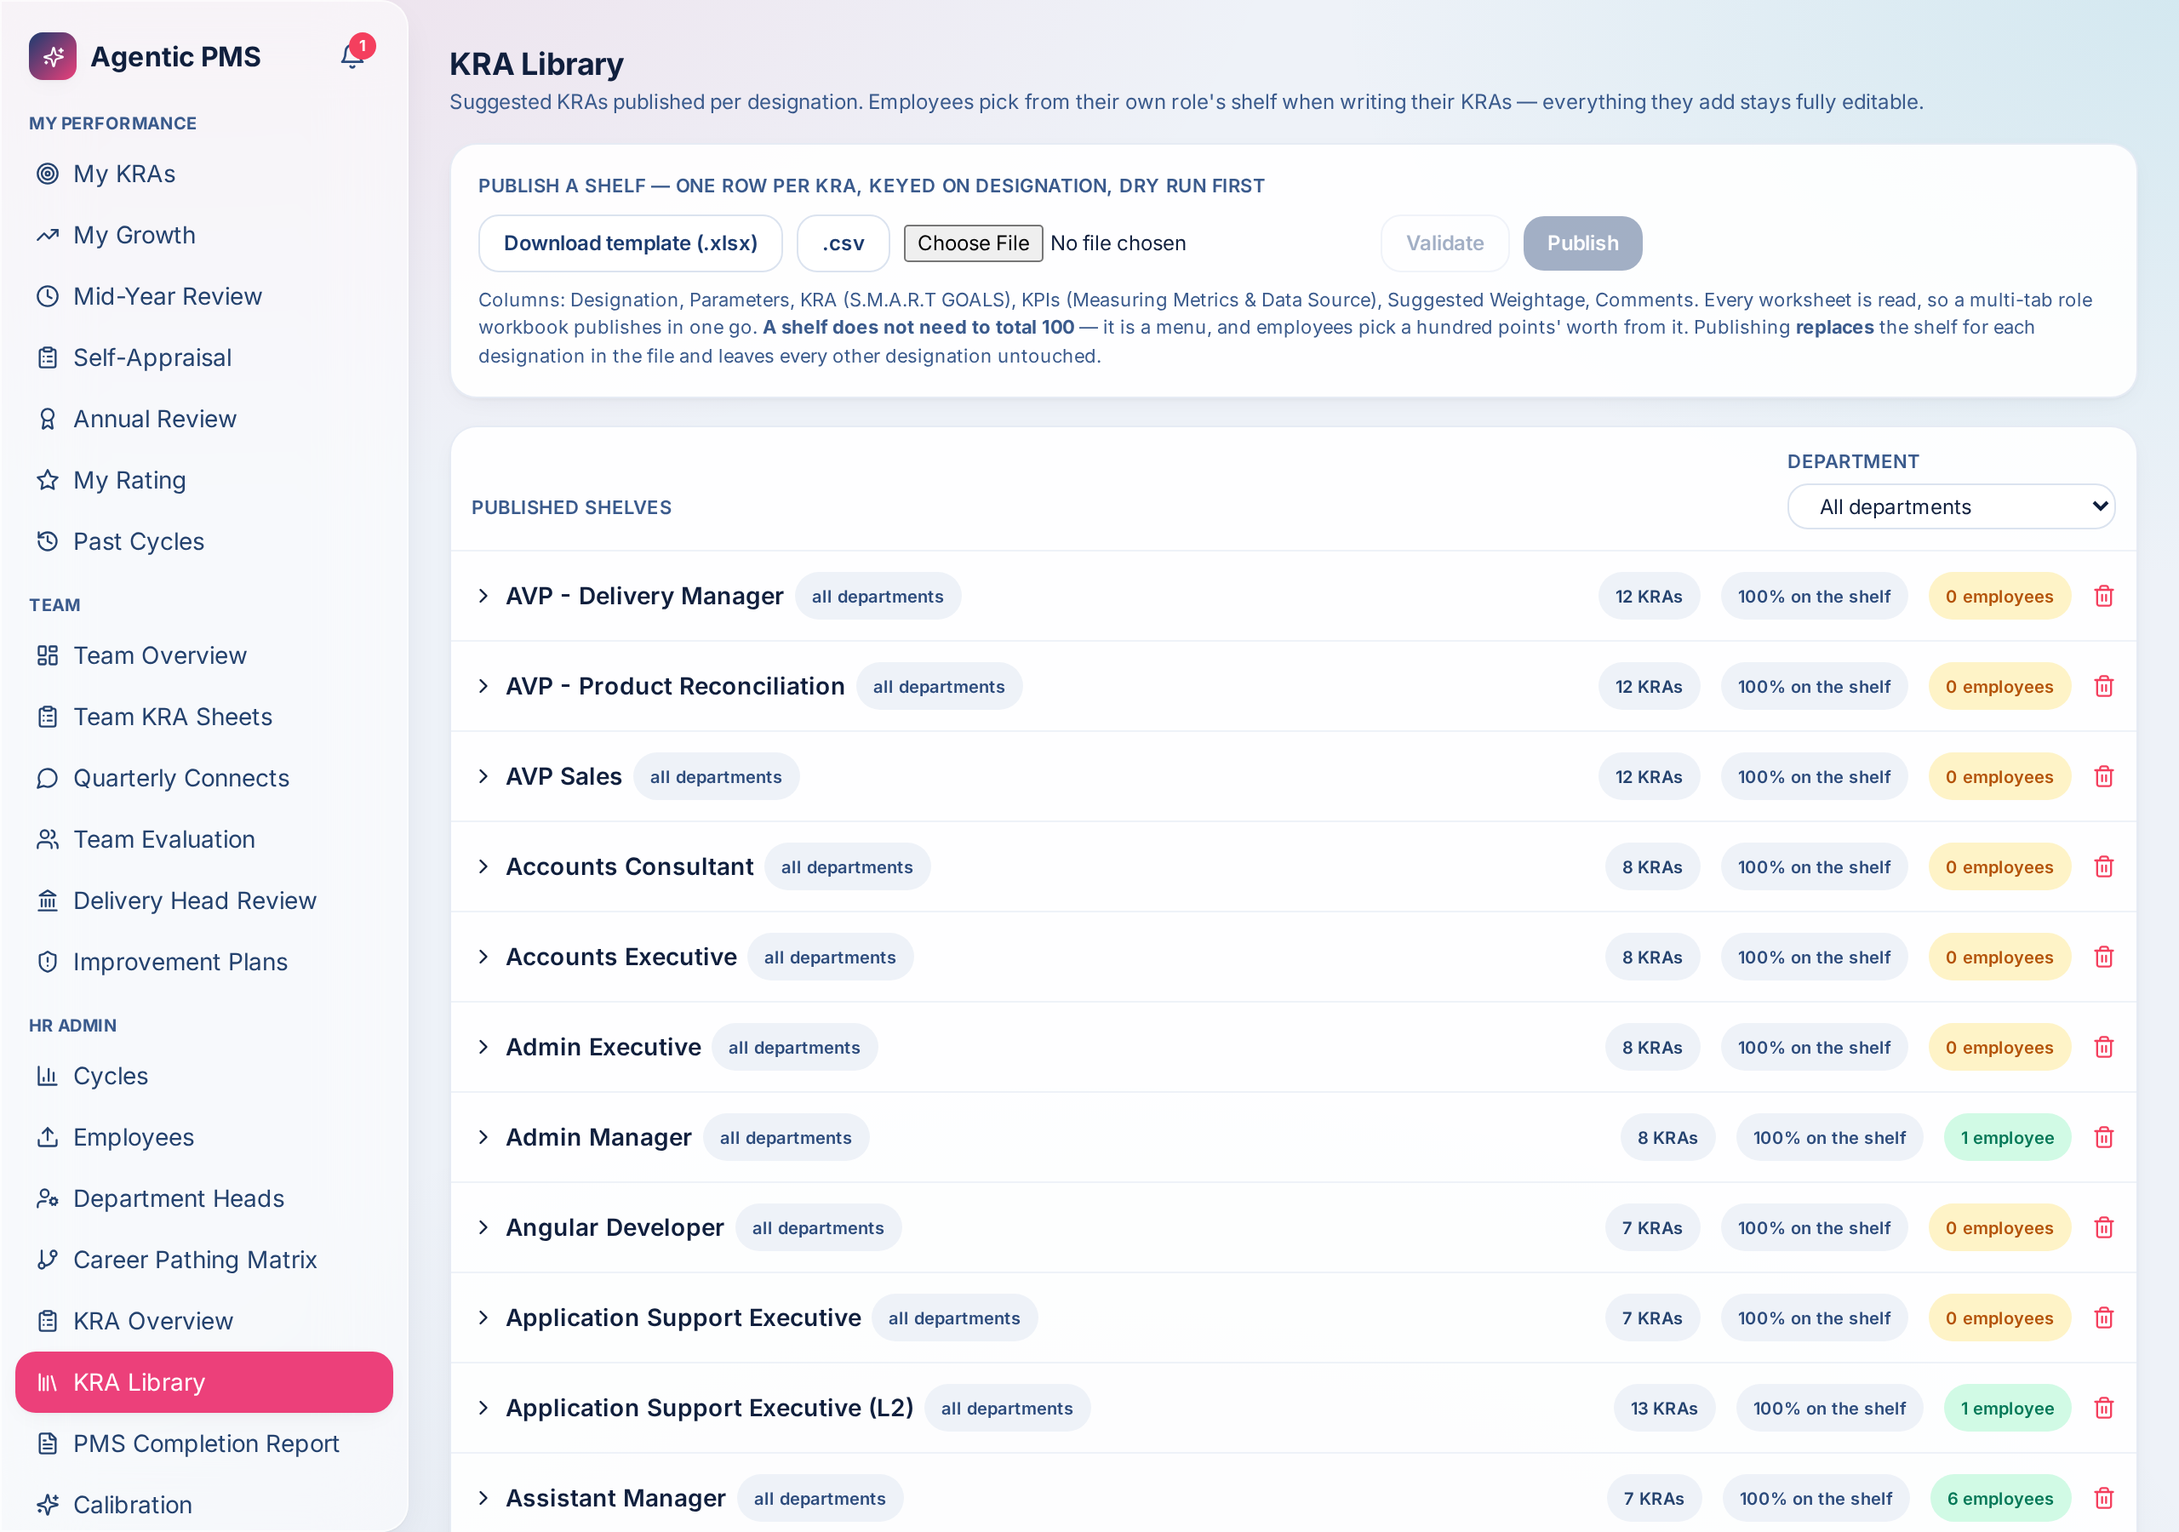
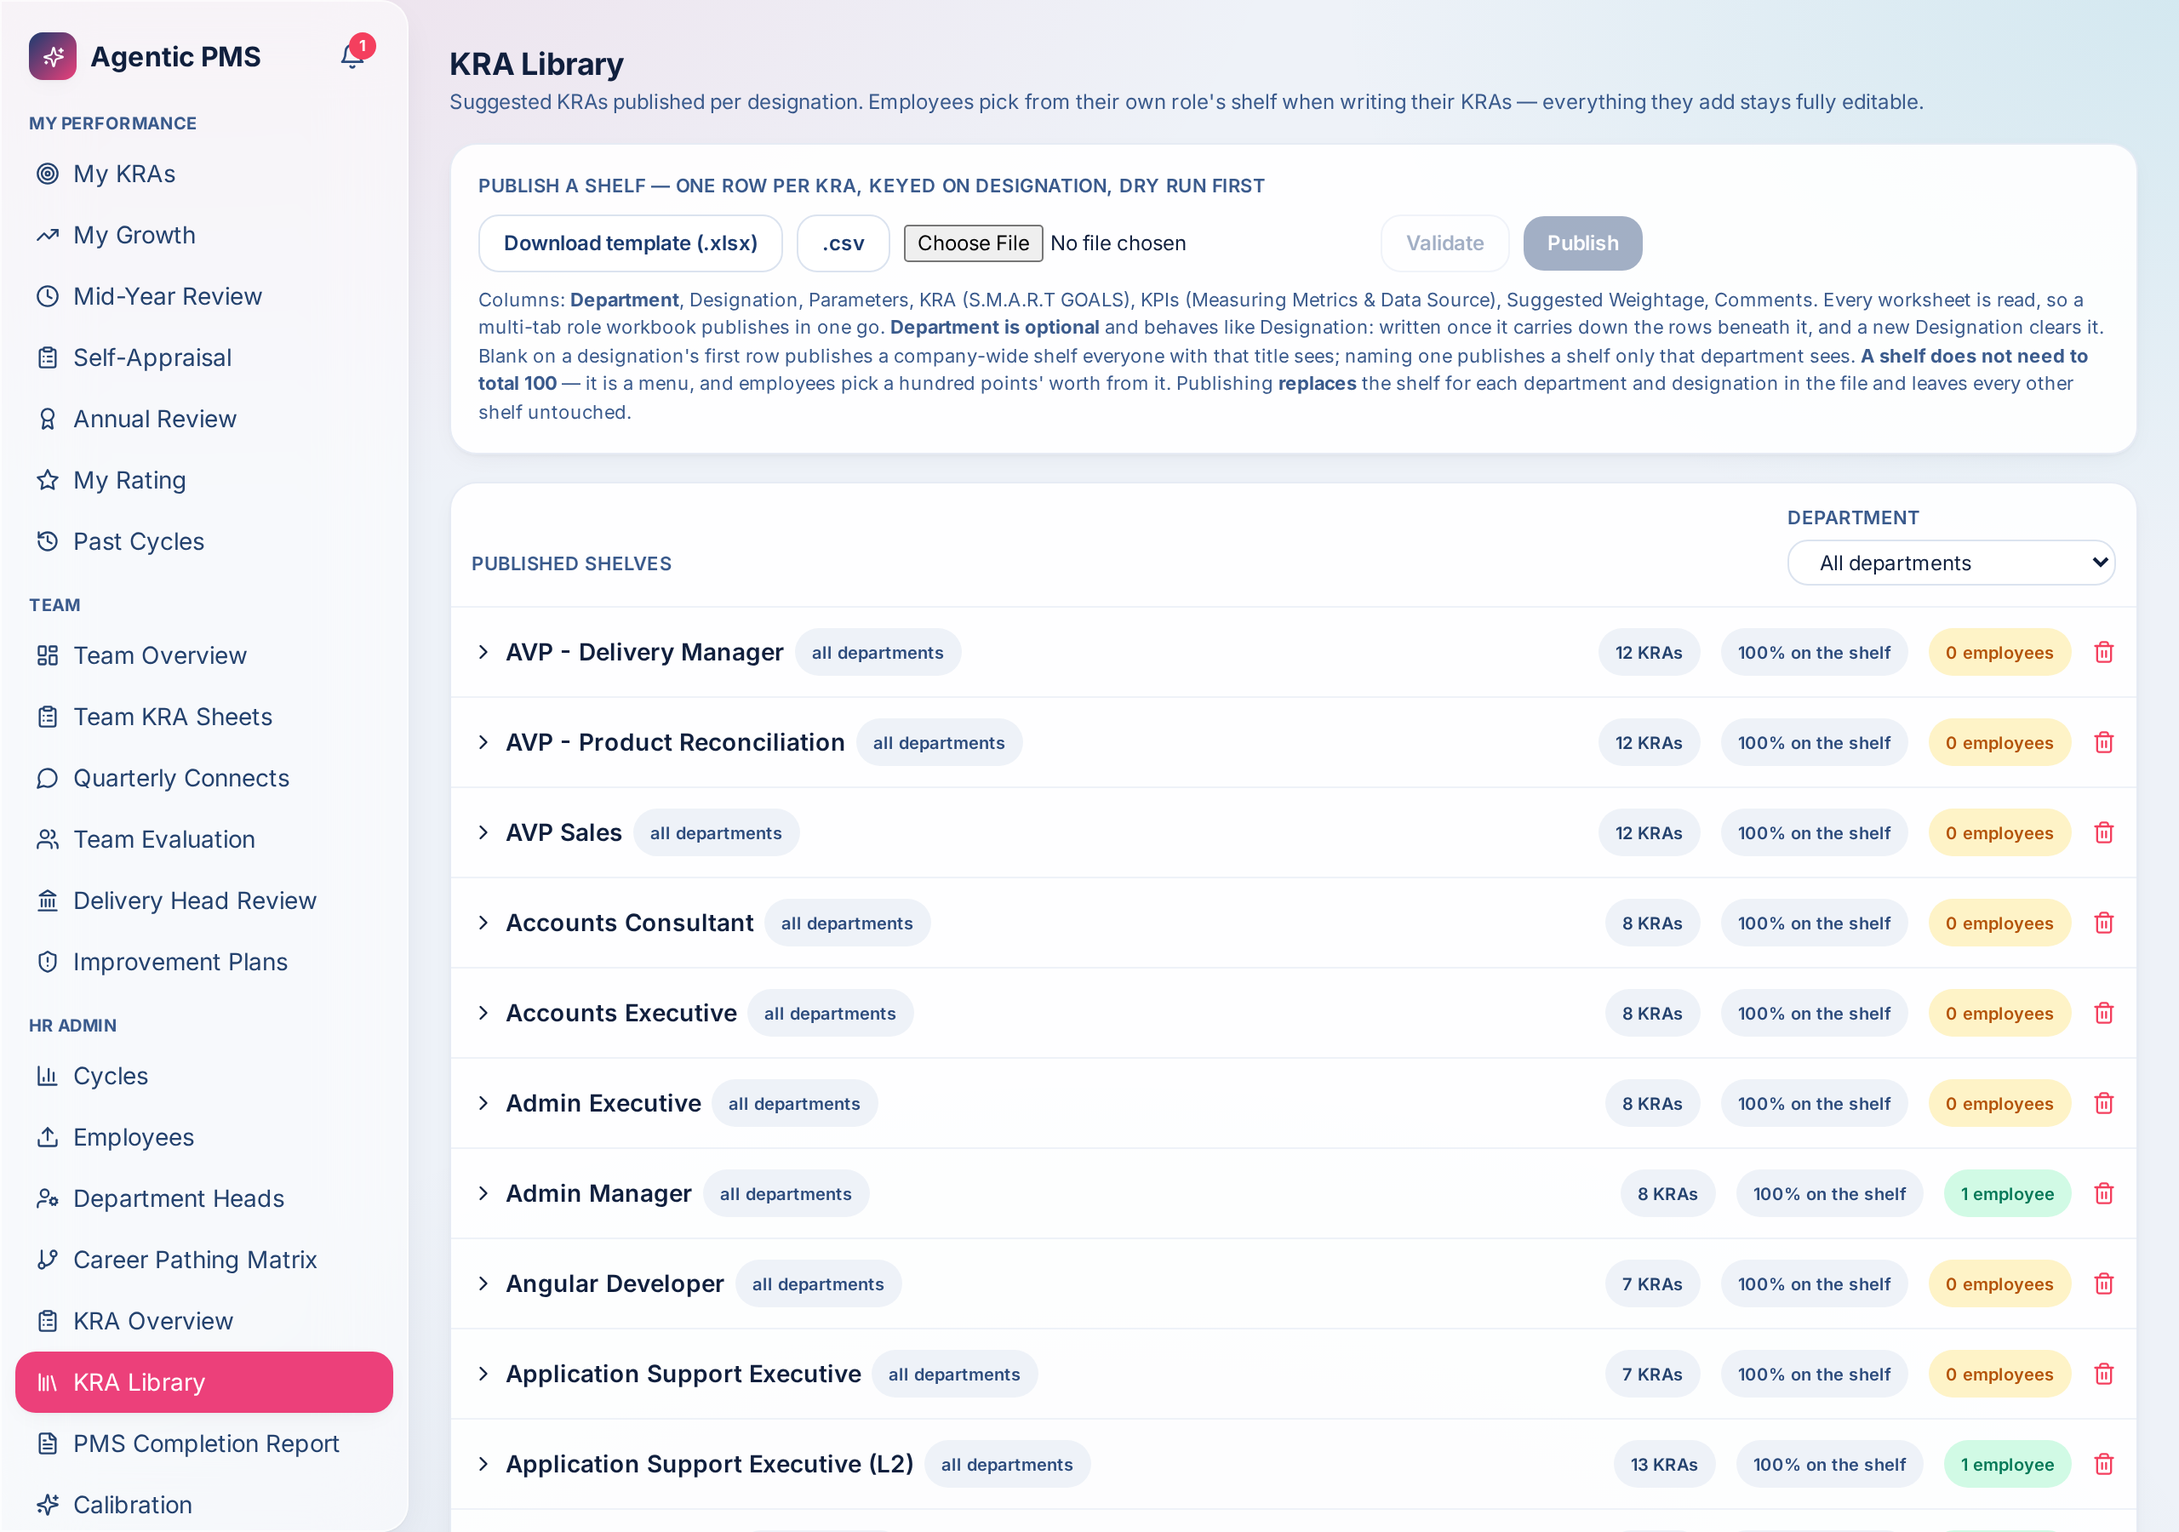
Document the Career Pathing Matrix upload for the PoC deploy
docs/PAGE-CAREER-PATHING-MATRIX-UPLOAD.md — the third page handover doc,
same shape as the two for the KRA Library: what HR sees, the file format,
every rule that refuses a row and every one that only warns, where the
code is, how to deploy it to a client PoC and how to prove it landed.

Four screenshots of the real flow — the card, a rejected file with the
bad row named by line, the same file valid, and after Publish with the
transitions on the matrix.

The deploy section includes the one check worth running against live
data: a dry run, with the transition count read before and after, to
prove Validate writes nothing. That is the guarantee a client PoC needs
demonstrated rather than asserted.

Two things fixed while here:

  The capture script died when kra_library_scope is 'designation',
  because the Department dropdown does not exist then and it read
  option[1] unconditionally. A developer running it on a PoC would have
  hit that first. It now skips that one shot and says so.

  Re-running the script refreshed five KRA Library images that had gone
  stale when the Department column was added to that template — the
  screenshots were showing a column list the page no longer had.

Both older docs said "Deployed as of 528c2e9", six commits behind. Now
a2725d2.

Claude-Session: https://claude.ai/code/session_01RhX1xUA47iJu7ozfwA1Vhh

diff --git a/docs/PAGE-CAREER-PATHING-MATRIX-UPLOAD.md b/docs/PAGE-CAREER-PATHING-MATRIX-UPLOAD.md
@@ -1,0 +1,275 @@
+# HR Admin — Career Pathing Matrix: bulk upload
+
+**Screen:** Career Pathing Matrix (`/admin/career-transitions`) — sidebar, under HR ADMIN
+**Who sees it:** `admin` and `hr` roles; every endpoint additionally requires
+the `people_admin` permission
+**Shipped as:** commit `a2725d2` on `main` · live on pms.agentichumans.in since
+17 Sep
+
+Asked for directly: *"can we have template upload option so HR can upload
+template for next defined roles."*
+
+The matrix was built one transition at a time through the **New transition**
+modal. For a company with 90 job titles on file that is an afternoon of
+clicking, and it gives nobody a way to review the whole ladder before
+committing it.
+
+---
+
+## 1. What HR sees
+
+The card sits directly above the search box, and uses **the same three
+controls, in the same order, as the KRA Library screen** — Download template ·
+Validate · Publish. That is deliberate: HR has learnt that shape once, and a
+second importer that behaved differently would be a second thing to learn.
+
+![The upload card on the Career Pathing Matrix](images/career-matrix-01-upload-card.png)
+
+**Validate on a file with a bad row.** Every problem is named by its
+spreadsheet line, all at once — not one per attempt.
+
+![A rejected file](images/career-matrix-02-validate-rejected.png)
+
+**The same file with the bad row removed.** `VALID — publish to go live`, and
+the counts say what Publish will do before it does it.
+
+![A valid file](images/career-matrix-03-validate-ok.png)
+
+**After Publish.** The transitions appear on the matrix below, competencies as
+chips.
+
+![Published](images/career-matrix-04-published.png)
+
+> Every shot is the deployed build driven in a browser against a copy of the
+> live database — download, fill, reject, fix, validate, publish. Nothing is a
+> mock-up.
+
+---
+
+## 2. The file
+
+| Column | Required | Notes |
+|---|---|---|
+| **From Role** | **yes** | should match a designation on the employee master |
+| From Level | no | blank = "any level" |
+| **To Role** | **yes** | |
+| To Level | no | |
+| Expected Level Change | no | whole number; `+1` next level, `+2` skip |
+| Min Time In Current Role (Months) | no | advisory, **not enforced** |
+| Typical Time In Current Role (Months) | no | advisory, used for ETA display |
+| Required Competencies | no | one per line, or separated by `;` or `\|` |
+| Notes | no | |
+
+`.xlsx` and `.csv` both work. Every worksheet in a workbook is read, so a file
+split by job family publishes in one go.
+
+**Header matching is forgiving.** Case and punctuation are ignored, and common
+alternatives are accepted — `Current Role`, `Target Role`, `From Band`, `Min
+Months`, `Skills`, `Comments` and others all map correctly. HR re-saves these
+files through Excel and Google Sheets, which rewrite spacing; a file rejected
+wholesale for "Min Time in Role (months)" teaches nobody anything.
+
+**The header row is found, not assumed.** The template carries an instruction
+banner above the table, and so do most files HR sends.
+
+**Competencies accept three separators** — newline, `;`, `|` — because a CSV
+round-trip usually flattens newlines and HR should not have to know which of
+the three their tool survived.
+
+---
+
+## 3. The rules — what is refused, and what is only warned about
+
+### Refused (the row, and with it the whole file)
+
+| Rule | Message |
+|---|---|
+| From Role or To Role missing | `From Role and To Role are both required` |
+| A role moves to itself (same role **and** level) | `"Manager" moves to itself — a transition needs a different role or level` |
+| The same transition twice in one file | `duplicate of line 3 — the same transition twice in one file` |
+| A months / level field that is not a whole number | `Expected Level Change must be a whole number — got "soon"` |
+
+> A level change **within** one role is a real transition and is allowed —
+> `Executive L1 → Executive L2` is a promotion, not a self-reference.
+
+### Warned about (published anyway)
+
+| Rule | Why it is not an error |
+|---|---|
+| A role no active employee holds | The point of a career matrix is roles people grow **into**. Rejecting a target with no incumbent would make the feature useless on day one. Same judgement the KRA importer makes. |
+| Typical time is less than the minimum | Probably a typo, but HR may know something the app does not. |
+
+---
+
+## 4. Three behaviours worth knowing before you demo it
+
+1. **Validate writes nothing.** Ever. It is the same endpoint with `?commit=1`
+   omitted. Proven against the live database at deploy time: a dry run ran, the
+   transition count was 0 before and 0 after.
+
+2. **A commit on a file with ANY error writes nothing either.** The good rows
+   above a bad one do not sneak in. HR fixes the file and uploads again.
+
+3. **RE-UPLOADING UPDATES, IT DOES NOT DUPLICATE.** Transitions are matched on
+   `(from_role, from_level, to_role, to_level)`, case- and space-insensitively,
+   so `executive` and `Executive  ` are the same rung. Without this a corrected
+   file silently doubles the matrix, and the second copy is indistinguishable
+   from the first on screen. The dry run reports `N new · M updated` so HR knows
+   which it will be.
+
+**Not covered by the upload:** there is no way to deactivate or delete a
+transition from a file. The upload only adds and updates; removing one still
+goes through that row's own **Deactivate** or bin button. Say if that should
+change.
+
+**No Department column here**, unlike the KRA Library template — transitions
+are role-to-role, not department-scoped.
+
+---
+
+## 5. Where the code is
+
+| Piece | File |
+|---|---|
+| Row rules (pure, no db, no express) | `server/modules/people/career-transitions-import.js` |
+| Template `.xlsx` | `server/modules/people/index.js:453` |
+| Template `.csv` | `:473` |
+| Upload (validate + publish) | `:492` |
+| Column list and header aliases | `career-transitions-import.js`, `COLUMNS` / `ALIASES` |
+| The card on screen | `frontend/src/pages/CareerTransitionsPage.jsx:79–110` |
+| `send(commit)` — the one call both buttons make | `CareerTransitionsPage.jsx:43` |
+| Tests | `server/test/career-transitions-upload.test.js` (15) |
+
+**Routes** (all `people_admin`):
+
+| Method | Path | Does |
+|---|---|---|
+| GET | `/api/v1/people/career/transitions/template.xlsx` | download template |
+| GET | `/api/v1/people/career/transitions/template.csv` | download template |
+| POST | `/api/v1/people/career/transitions/upload` | validate (default) |
+| POST | `/api/v1/people/career/transitions/upload?commit=1` | publish |
+
+**Table:** `people.career_transitions` (migration `022-career-transitions.js`).
+**No new migration** — this feature writes to the table the modal already used,
+so there is no schema change in this deploy.
+
+**Upload limit:** 2 MB. A career matrix is tens of rows, not tens of thousands;
+a low limit turns "somebody uploaded the wrong file" into a clear error rather
+than a slow request.
+
+### Things that will break if "tidied"
+
+| Don't | Because |
+|---|---|
+| Match transitions on `id` or on exact string equality | re-uploading then duplicates the matrix instead of updating it |
+| Make an unknown role an error | the matrix exists to describe roles nobody holds yet |
+| Let a commit write the rows that passed | a half-applied file HR has not seen the verdict on is what the two-step prevents |
+| Move the template routes below `/career/transitions/:id` | Express matches in order; a `:id` route would swallow `template.xlsx` |
+
+---
+
+## 6. Deploying to a client PoC
+
+```bash
+# on the host
+sudo /opt/agentic-pms/deploy/service/update.sh
+```
+
+Pulls `main`, installs, builds the frontend into `/var/www/agentic-pms`,
+restarts `agentic-pms-api`, waits for health. Migrations run in-process at boot
+and **fail the boot** if one throws, so a bad migration stops the deploy rather
+than half-applying. This particular change adds none.
+
+> `VITE_API_URL` must stay **unset** on the host — it is baked in at build time
+> and the frontend is served from the same origin as the API.
+
+### Verify
+
+```bash
+git -C /opt/agentic-pms log -1 --format='%h %s'     # expect a2725d2 or later
+systemctl is-active agentic-pms-api nginx           # active active
+curl -fsS http://127.0.0.1/api/v1/health            # {"ok":true,…}
+
+# the new routes must answer, and must be guarded
+curl -s -o /dev/null -w '%{http_code}\n' \
+  http://127.0.0.1/api/v1/people/career/transitions/template.xlsx   # 401 without a token
+sudo journalctl -u agentic-pms-api --since '-5 min' -p err
+```
+
+To check as HR without a password, mint a short-lived token with the service's
+own secret **on the host**:
+
+```bash
+cd /opt/agentic-pms/server
+TOK=$(sudo env $(sudo grep -E '^(JWT_SECRET|DATABASE_URL|DATABASE_SSL)=' \
+      /etc/agentic-pms/api.env | xargs) node -e "
+const jwt=require('jsonwebtoken'), db=require('./core/db');
+(async()=>{const e=(await db.query(\"SELECT id,email,name,tenant_id FROM core.employees WHERE lower(email)='hr.admin@mindgate.com' LIMIT 1\")).rows[0];
+console.log(jwt.sign({sub:e.id,email:e.email,name:e.name,role:'admin',tenant_id:e.tenant_id},process.env.JWT_SECRET,{expiresIn:'5m'}));await db.pool.end();})()")
+
+curl -s -H "Authorization: Bearer $TOK" \
+  http://127.0.0.1/api/v1/people/career/transitions/template.csv | head -1
+```
+
+Expected header line:
+
+```
+From Role,From Level,To Role,To Level,Expected Level Change,Min Time In Current Role (Months),Typical Time In Current Role (Months),Required Competencies,Notes
+```
+
+**The one check worth running on real data** — that Validate writes nothing:
+
+```bash
+DB=$(sudo grep -oP '^DATABASE_URL=.*/\K[A-Za-z0-9_]+' /etc/agentic-pms/api.env | head -1)
+BEFORE=$(sudo -u postgres psql -d "$DB" -tAc "SELECT count(*) FROM people.career_transitions")
+printf 'From Role,To Role\nExecutive,Senior Executive\n' > /tmp/dry.csv
+curl -s -H "Authorization: Bearer $TOK" -F "file=@/tmp/dry.csv" \
+  http://127.0.0.1/api/v1/people/career/transitions/upload
+AFTER=$(sudo -u postgres psql -d "$DB" -tAc "SELECT count(*) FROM people.career_transitions")
+echo "before=$BEFORE after=$AFTER"        # must be equal
+rm -f /tmp/dry.csv
+```
+
+The response should read `"ok": true, "committed": false`, and the two counts
+must match. That is the guarantee worth proving against live data rather than
+trusting.
+
+---
+
+## 7. Tests
+
+```bash
+cd server
+createdb apms_check                 # MUST be a fresh database
+DATABASE_URL=postgres://postgres:pgpass@127.0.0.1:5432/apms_check \
+DATABASE_SSL=false JWT_SECRET=t TENANT_SLUG=x AUTH_DEV=true npm test
+```
+
+483 pass, 0 fail. `server/test/career-transitions-upload.test.js` holds the 15
+for this feature. Two carry the weight:
+
+- **`THE APP'S OWN TEMPLATE IMPORTS`** — downloads the real `.xlsx` from the
+  route and feeds it to the real parser, so the two cannot drift apart. The
+  failure being guarded against is HR filling in the app's own official file
+  and having every row rejected.
+- **`RE-UPLOADING UPDATES, IT DOES NOT DUPLICATE`** — uploads twice and asserts
+  the matrix did not grow.
+
+> **Run against a fresh database every time.** Re-running against a used one
+> produces four phantom failures in `self-appraisal-rating.test.js` from
+> leftover rows. They are not real.
+
+Re-shoot the screenshots after any change to this page, against a restored copy
+of the live database — never against production.
+
+---
+
+## 8. State at the time of writing
+
+| | |
+|---|---|
+| Transitions on the client PoC | **0** — the matrix is empty, so HR can seed the whole ladder from one file |
+| Audit action for a bulk change | `CAREER_TRANSITIONS_UPLOADED`, with created / updated counts and the actor |
+
+A career matrix decides which moves the product will accept, so changing it in
+bulk is a configuration change and is audited as one.

diff --git a/docs/PAGE-MY-KRAS-LIBRARY-PICKER.md b/docs/PAGE-MY-KRAS-LIBRARY-PICKER.md
@@ -3,7 +3,7 @@
 **Screen:** My KRAs (`/my/kras`) — the lagoon-coloured panel above *Add KRA*
 **Who sees it:** every employee, on their own sheet; managers and HR see the same
 component on a report's sheet
-**Deployed as of:** commit `528c2e9` on `main`, live on pms.agentichumans.in
+**Deployed as of:** commit `a2725d2` on `main`, live on pms.agentichumans.in
 
 This is the panel that offers an employee the KRAs HR published for their role.
 It is a **menu**, not an instruction: it deliberately offers more than 100

diff --git a/docs/PAGE-HR-KRA-LIBRARY.md b/docs/PAGE-HR-KRA-LIBRARY.md
@@ -3,7 +3,7 @@
 **Screen:** KRA Library (`/admin/kra-library`) — sidebar, under HR ADMIN
 **Who sees it:** `admin` and `hr` roles only; every endpoint additionally
 requires the `pms_admin` permission
-**Deployed as of:** commit `528c2e9` on `main`, live on pms.agentichumans.in
+**Deployed as of:** commit `a2725d2` on `main`, live on pms.agentichumans.in
 
 This is where HR publishes the shelves that the *My KRAs* picker offers. One
 row per KRA, keyed on **Designation** (and optionally **Department**).
